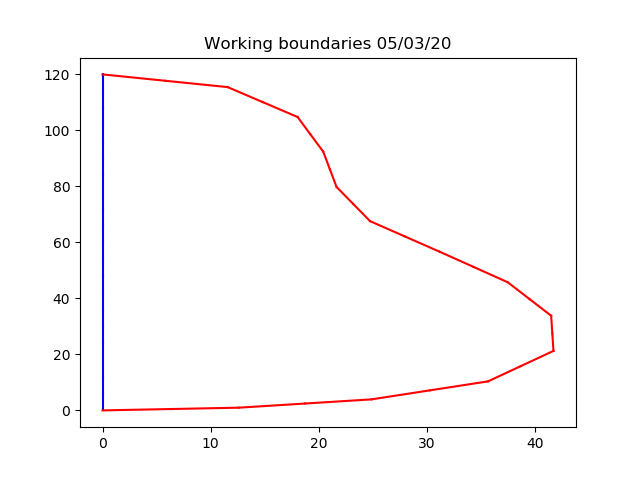
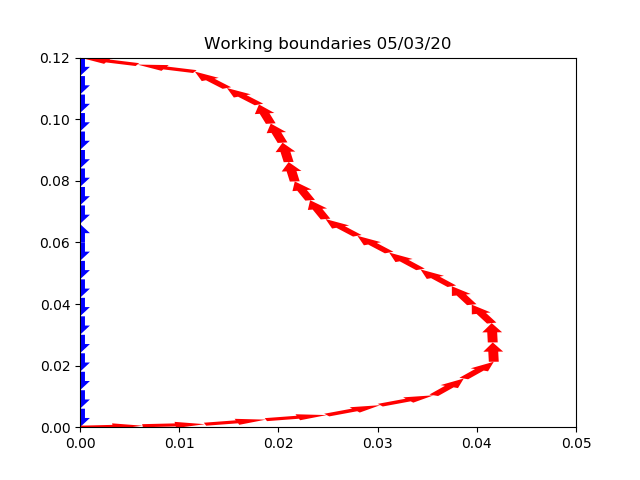
Need to reinstall my OS

diff --git a/Testing/plot_bound.py b/Testing/plot_bound.py
@@ -1,40 +1,33 @@
 import matplotlib.pyplot as plt
 import numpy as np
+from io import StringIO 
 
-file_name = "bound_test_out"
-file_o = open(file_name, 'r')
-fig = plt.figure()
-line = file_o.readline()
-line_data = file_o.readline().strip().split()
-coords = np.array([float(line_data[3]), float(line_data[5])])
-line = file_o.readline()
-while line.strip() != "":
-    line_data = line.strip().split()
-    coords = np.vstack((coords, 
-        np.array([float(line_data[3]), float(line_data[5])])))
-    line = file_o.readline()
+coords_file = open("coords", 'r')
+coords_str = coords_file.read()
+coords_str = coords_str[coords_str.find('\n') + 1:]
+coords_stream = StringIO(coords_str)
+coords = np.loadtxt(coords_stream)
 
-line = file_o.readline()
-line_data = line.strip().split()
-nodes = np.array([int(line_data[0]), int(line_data[2])])
-cond = [int(line_data[3])]
-line = file_o.readline()
-while line.strip() != "":
-    line_data = line.strip().split()
-    nodes = np.vstack((nodes, 
-        np.array([int(line_data[0]), int(line_data[2])])))
-    cond.append(int(line_data[3]))
-    line = file_o.readline()
-count = 0
-for elem in nodes:
-    x = [coords[elem[0]][0], coords[elem[1]][0]]
-    y = [coords[elem[0]][1], coords[elem[1]][1]]
-    if cond[count] == 0:
+boundaries_file = open("boundaries", 'r')
+bound_str = boundaries_file.read()
+bound_stream = StringIO(bound_str)
+boundaries = np.loadtxt(bound_stream)
+
+ax = plt.axes()
+for elem in boundaries:
+    x = [coords[int(elem[0])][0], coords[int(elem[1])][0]]
+    y = [coords[int(elem[0])][1], coords[int(elem[1])][1]]
+    if elem[2] == 0:
         color = 'r'
     else:
         color = 'b'
-    plt.plot(x, y, color)
-    count += 1
+    ax.arrow(coords[int(elem[0])][0],coords[int(elem[0])][1],
+            coords[int(elem[1])][0]-coords[int(elem[0])][0],
+            coords[int(elem[1])][1]-coords[int(elem[0])][1], 
+            head_width=0.002, length_includes_head=True, lw=0.00001, 
+            color=color)
+plt.xlim(0,0.050)
+plt.ylim(0,0.120)    
 
 plt.title("Working boundaries 05/03/20")
 plt.show()

diff --git a/src/main.cpp b/src/main.cpp
@@ -58,8 +58,8 @@ typename FEM_module::Element<P, I>::node_t
 template <typename P, typename I>
 typename FEM_module::Element<P, I>::node_t 
 	//FEM_module::ElementTriangular<P, I>::NUM_NODES = 42;
-	//FEM_module::ElementTriangular<P, I>::NUM_NODES = 142;
-	FEM_module::ElementTriangular<P, I>::NUM_NODES = 19;
+	FEM_module::ElementTriangular<P, I>::NUM_NODES = 142;
+	//FEM_module::ElementTriangular<P, I>::NUM_NODES = 19;
 template <typename P, typename I>
 typename FEM_module::Element<P, I>::precision_t 
 	FEM_module::ElementTriangular<P, I>::C_U_AMB = 101300*0.208/(8.32*293);
@@ -83,8 +83,8 @@ typename FEM_module::Element<P, I>::precision_t
 template <typename P, typename I>
 typename FEM_module::Element<P, I>::node_t 
 	//FEM_module::ElementBoundary<P, I>::NUM_NODES = 42;
-	//FEM_module::ElementBoundary<P, I>::NUM_NODES = 142;
-	FEM_module::ElementBoundary<P, I>::NUM_NODES = 19;
+	FEM_module::ElementBoundary<P, I>::NUM_NODES = 142;
+	//FEM_module::ElementBoundary<P, I>::NUM_NODES = 19;
 	
 int test2(){
 	FEM_module::ImporterMsh<double, long> mesh_importer("../Input/pear.msh");
@@ -152,7 +152,7 @@ int test_concentration_model_1(){
 
 int test_concentration_model_2(){
 	std::vector<double> interior_point{0.01, 0.06};
-	FEM_module::ImporterMsh<double, int> mesh_importer("../Input/circle.msh");
+	FEM_module::ImporterMsh<double, int> mesh_importer("../Input/pear_3.msh");
 	mesh_importer.process_file();
 	FEM_module::ConcentrationModel<double, int> model(mesh_importer, 
 			interior_point);

diff --git a/src/stiff_mat.py b/src/stiff_mat.py
@@ -1,0 +1,25 @@
+import numpy as np
+
+sig_u_r = 2.8e-10
+sig_u_z = 1.1e-9
+sig_v_r = 2.32e-9
+sig_v_z = 6.97e-9
+sig_u = np.array([[sig_u_r, 0],[0, sig_u_z]])
+sig_v = np.array([[sig_v_r, 0],[0, sig_v_z]])
+
+r1 = 55.4328
+r2 = 36.2876
+r3 = 29.0488
+z1 = 47.039
+z2 = 61.2636
+z3 = 41.3302
+
+jac = abs((r2-r1)*(z3-z1)-(r3-r1)*(z2-z1))
+
+grad_1 = np.array([-1, -1])
+grad_2 = np.array([1, 0])
+grad_3 = np.array([0, 1])
+grads = [grad_1, grad_2, grad_3]
+
+k = jac*(r1 + r2 + r3)/6
+

diff --git a/Testing/plot_mesh.py b/Testing/plot_mesh.py
@@ -33,3 +33,16 @@ for elem in nodes:
 
 plt.title("Working importer 23/02/20")
 plt.show()
+
+count = 0
+for elem in nodes:
+    ax = plt.axes()
+    for i in range(3):
+        ax.arrow(coords[elem[i%3]][0], coords[elem[i%3]][1],
+                coords[elem[(i+ 1)%3]][0]-coords[elem[i%3]][0],
+                coords[elem[(i + 1)%3]][1]-coords[elem[i%3]][1], 
+                head_width = 1)
+    plt.xlim(0,40)
+    plt.ylim(0,100)    
+    plt.show()
+    count += 1

diff --git a/src/element.hpp b/src/element.hpp
@@ -320,7 +320,7 @@ class ElementTriangular : public Element<P, I>{
 					K_MV*V_MU*RESP_Q*c_u*pow((K_MFU + c_u), 2) -
 					K_MV*V_MU*RESP_Q*pow((K_MFU + c_u), 2)*(K_MU + c_u))/
 					(pow((K_MFU + c_u), 2)*pow((K_MU + c_u), 2)*
-					 pow((K_MV + c_v), 2));
+					(K_MV + c_v));
 			}
 			else{
 				k = -K_MV*V_MU*RESP_Q*

diff --git a/src/stiff_viz.py b/src/stiff_viz.py
@@ -1,0 +1,7 @@
+import numpy as np
+import scipy.sparse as sparse
+import matplotlib.pylab as plt
+a = np.loadtxt("stiff_2", skiprows=1)
+b = sparse.csr_matrix(a)
+plt.spy(b, markersize=1)
+plt.show()
